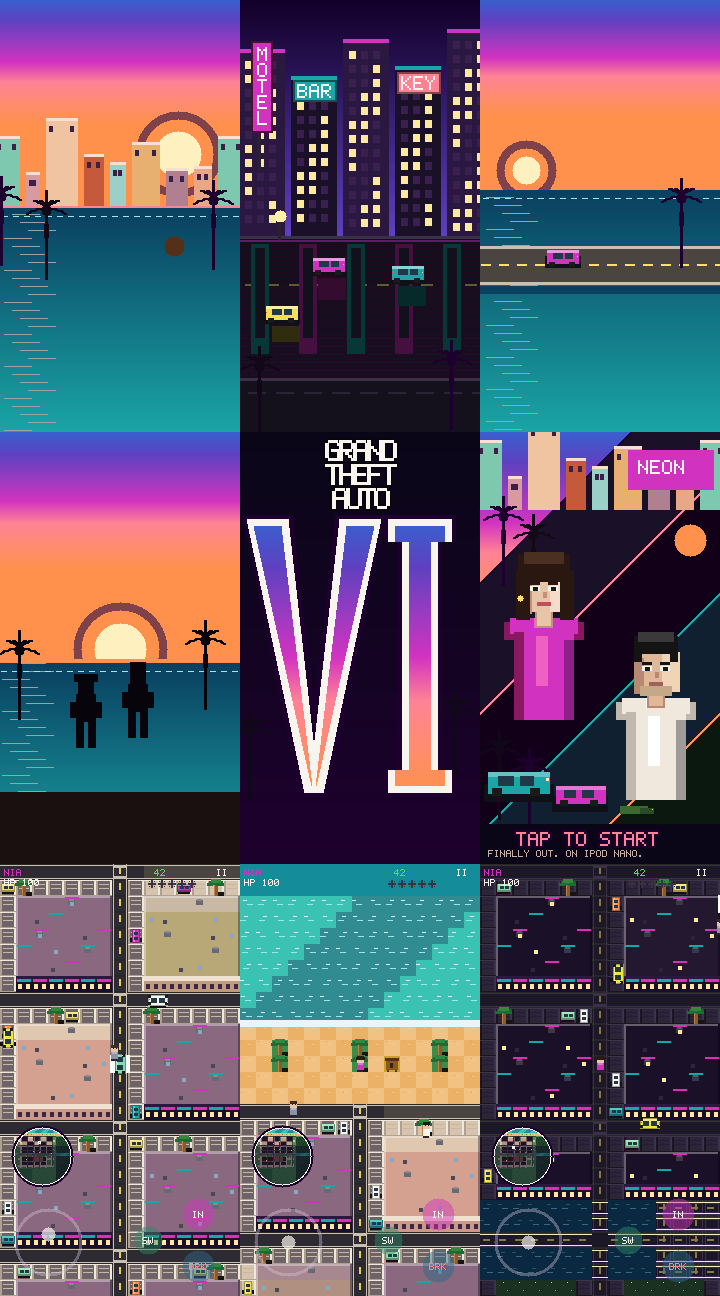
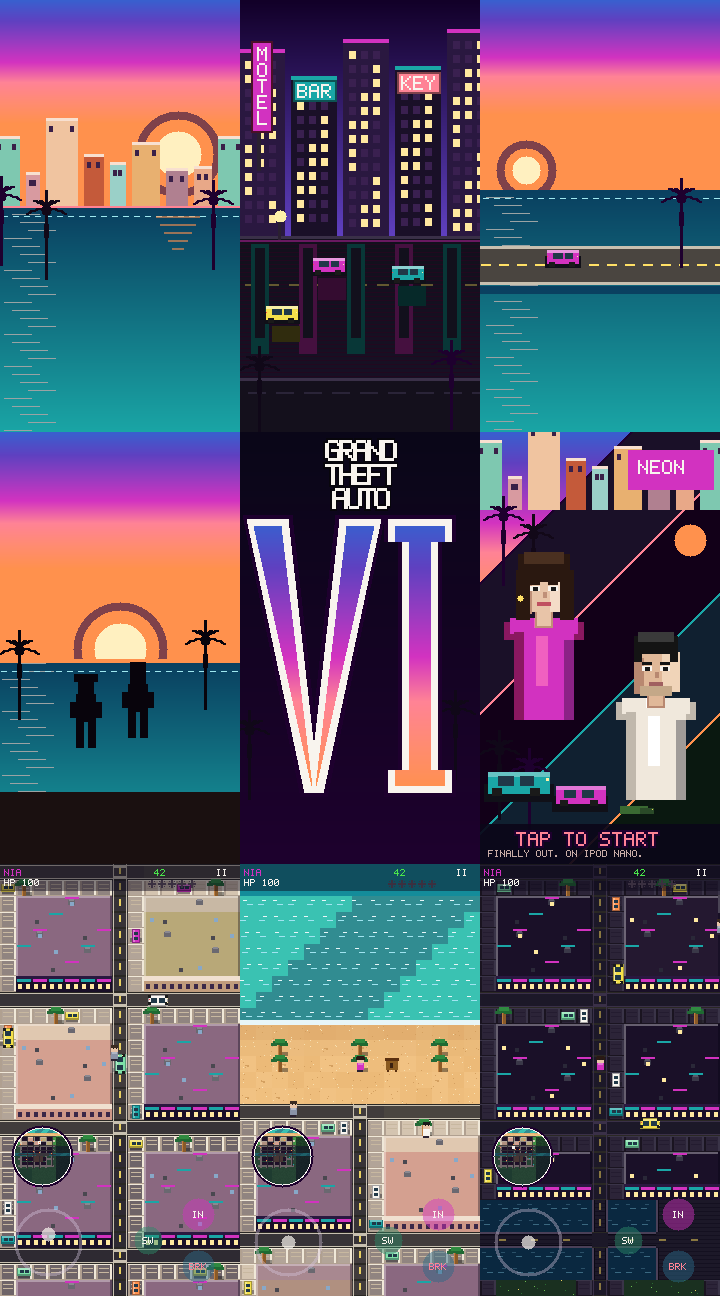
fix: GTA 6 beach sand, bridge, HUD legibility and translucent shadows
- Sand, grass and swamp used a parity hash that made a visible checkerboard.
  They now use an integer hash with soft shade steps, speckles and wet sand.
- Palms and the beach hut sit on sand, not on green squares.
- Bridge deck draws planks, rails on the water side and lane dashes instead
  of a grid of road edge lines.
- Neon glow near buildings fades in two steps instead of a hard patch.
- fillr ignores alpha, so shadows, the player car highlight, the pause
  overlay and the title strip were opaque. They now blend.
- Top HUD and ticker get a dark backing strip so text reads over any tile.
- Sunset scene: the brown ball in the water is now an orange reflection.

Movement values, memory plan and save format are unchanged.

diff --git a/nanoapps/apps/gta6/gta6_gfx.c b/nanoapps/apps/gta6/gta6_gfx.c
@@ -68,6 +68,15 @@ static void pset_a(uint32_t *fb, int w, int h, int x, int y, uint32_t c, int a)
     fb[(long)y * w + x] = lerp(d, c, a, 256);
 }
 
+static uint32_t thash(int x, int y)
+{
+    uint32_t v = (uint32_t)x * 0x9E3779B1u ^ (uint32_t)y * 0x85EBCA6Bu;
+    v ^= v >> 15;
+    v *= 0x2C1B3C6Du;
+    v ^= v >> 12;
+    return v;
+}
+
 static void fillr(uint32_t *fb, int w, int h, int x, int y, int rw, int rh, uint32_t c)
 {
     int i, j, x1, y1;
@@ -83,6 +92,13 @@ static void fillr(uint32_t *fb, int w, int h, int x, int y, int rw, int rh, uint
         uint32_t *row = fb + (long)j * w;
         for (i = x; i < x1; i++) row[i] = c;
     }
+}
+
+static void fill_a(uint32_t *fb, int w, int h, int x, int y, int rw, int rh, uint32_t c, int a)
+{
+    int i, j;
+    for (j = y; j < y + rh; j++)
+        for (i = x; i < x + rw; i++) pset_a(fb, w, h, i, j, c, a);
 }
 
 static uint32_t fade_c(uint32_t c, int f)
@@ -308,7 +324,13 @@ static void scene_sunset(uint32_t *fb, int w, int h, int t, int fade)
     draw_skyline(fb, w, h, hor, pan, fade);
     fillr(fb, w, h, 0, hor, w, 3, fade_c(G6_COL_PINK, fade));
     draw_water(fb, w, h, hor + 2, pan, fade);
-    disc(fb, w, h, 168 + pan / 8, hor + 40, 10, fade_c(G6_COL_ORANGE, fade / 3));
+    {
+        int k, rx = 172 + pan / 8;
+        for (k = 0; k < 5; k++) {
+            int rw = 44 - k * 8;
+            fill_a(fb, w, h, rx - rw / 2, hor + 10 + k * 8, rw, 2, G6_COL_ORANGE, 150 * fade / 256);
+        }
+    }
     draw_palm_sil(fb, w, h, 16 - pan / 3, hor - 8, fade_c(G6_COL_OUTLINE, fade));
     draw_palm_sil(fb, w, h, 70 - pan / 2, hor + 6, fade_c(0xff120818, fade));
     draw_palm_sil(fb, w, h, 200 + pan / 4, hor - 4, fade_c(G6_COL_OUTLINE, fade));
@@ -578,7 +600,7 @@ static void draw_menu(G6Game *g, uint32_t *fb, int w, int h)
     fillr(fb, w, h, 148, 18, 86, 40, G6_COL_MAGENTA);
     g6_text5(fb, w, h, 158, 28, "NEON", 2, G6_COL_WHITE);
     disc(fb, w, h, 210, 108, 16, G6_COL_ORANGE);
-    fillr(fb, w, h, 0, 392, w, 40, 0xEE0A0618);
+    fill_a(fb, w, h, 0, 392, w, 40, 0xff0A0618, 238);
     text_ol(fb, w, h, 36, 400, "TAP TO START", 2,
             pulse ? G6_COL_WHITE : G6_COL_PINK, G6_COL_OUTLINE);
     g6_text5(fb, w, h, 8, 418, G6_TAG, 1, 0xffC9ADA7);
@@ -627,13 +649,17 @@ static int is_bldg(int t)
     return t == T_BUILD || t == T_ROOF || t == T_NEON || t == T_SHACK;
 }
 
-static int near_neon(const G6Game *g, int tx, int ty)
+/* Neon glow strength out of 5 for a tile: soft falloff, not a hard patch. */
+static int neon_glow(const G6Game *g, int tx, int ty)
 {
-    int dx, dy;
+    int dx, dy, best = 3;
     for (dy = -2; dy <= 2; dy++)
         for (dx = -2; dx <= 2; dx++)
-            if (map_tile(g, tx + dx, ty + dy) == T_NEON) return 1;
-    return 0;
+            if (map_tile(g, tx + dx, ty + dy) == T_NEON) {
+                int d = (dx < 0 ? -dx : dx) > (dy < 0 ? -dy : dy) ? (dx < 0 ? -dx : dx) : (dy < 0 ? -dy : dy);
+                if (d < best) best = d;
+            }
+    return best == 3 ? 0 : (best <= 1 ? 2 : 1);
 }
 
 static int view_night(const G6Game *g)
@@ -649,26 +675,56 @@ static uint32_t roof_of(int tx, int ty)
     return ROOF_PAL[((tx / 8) * 3 + (ty / 8) * 5) & 7];
 }
 
+/* What lies under a palm or a hut: sand on the beach, grass elsewhere. */
+static int ground_of(const G6Game *g, int tx, int ty)
+{
+    int dx, dy;
+    for (dy = -1; dy <= 1; dy++)
+        for (dx = -1; dx <= 1; dx++)
+            if (map_tile(g, tx + dx, ty + dy) == T_SAND) return T_SAND;
+    for (dy = -1; dy <= 1; dy++)
+        for (dx = -1; dx <= 1; dx++)
+            if (map_tile(g, tx + dx, ty + dy) == T_PARK) return T_PARK;
+    return T_GRASS;
+}
+
+static uint32_t sand_col(const G6Game *g, int x, int y)
+{
+    uint32_t hv = thash(x, y);
+    uint32_t c = lerp(G6_COL_SAND, 0xffE0AE68, (int)(hv & 3u), 8);
+    if (map_tile(g, x, y - 1) == T_OCEAN)
+        c = lerp(c, 0xffC89A60, 3, 8);
+    else if (map_tile(g, x, y - 2) == T_OCEAN)
+        c = lerp(c, 0xffD8AC70, 1, 4);
+    return c;
+}
+
 static uint32_t tile_col(const G6Game *g, int t, int x, int y)
 {
-    int hsh = (x * 13 + y * 7) & 7;
-    int night = (t == T_NEON) || (y >= 30) || near_neon(g, x, y);
+    uint32_t hv = thash(x, y);
+    int hsh = (int)(hv & 7u);
+    int nk = (t == T_NEON || y >= 30) ? 3 : neon_glow(g, x, y);
+    int night = nk > 0;
     uint32_t c;
+    if (t == T_PALM || t == T_SHACK) {
+        int under = ground_of(g, x, y);
+        c = under == T_SAND ? sand_col(g, x, y)
+            : under == T_PARK ? 0xff2F7A3A : 0xff3D8C40;
+        t = under == T_SAND ? T_SAND : T_GRASS;
+    } else
     switch (t) {
     case T_OCEAN: c = ((g->tick_n + x + y) & 8) ? 0xff148C9A : 0xff1EC8C0; break;
-    case T_SAND: c = hsh & 1 ? G6_COL_SAND : 0xffE8B56A; break;
-    case T_GRASS: c = hsh ? 0xff4A9A4A : 0xff3D8C40; break;
+    case T_SAND: c = sand_col(g, x, y); break;
+    case T_GRASS: c = lerp(0xff3D8C40, 0xff4A9A4A, hsh & 3, 4); break;
     case T_PARK: c = 0xff2F7A3A; break;
-    case T_SWAMP: c = hsh & 1 ? 0xff234A2C : 0xff1B3A24; break;
+    case T_SWAMP: c = lerp(0xff1B3A24, 0xff234A2C, hsh & 3, 4); break;
     case T_ROAD: c = G6_COL_ASPHALT; break;
     case T_WALK: c = 0xffD4C4B0; break;
     case T_BUILD:
     case T_ROOF: c = roof_of(x, y); break;
     case T_BRIDGE: c = 0xff6A6458; break;
     case T_DOCK: c = 0xff8A6A44; break;
-    case T_PALM: c = 0xff3D8C4A; break;
     case T_NEON: c = 0xff241028; break;
-    case T_SHACK: c = 0xffC9A227; break;
     default: c = 0xff203018; break;
     }
     if (t == T_SAND || t == T_OCEAN || t == T_DOCK)
@@ -679,14 +735,14 @@ static uint32_t tile_col(const G6Game *g, int t, int x, int y)
         if (t == T_ROAD || t == T_BRIDGE) nv = 0xff1A1828;
         if (t == T_WALK) nv = 0xff2A2438;
         if (t == T_NEON) nv = 0xff1A1028;
-        c = lerp(c, nv, 3, 5);
+        c = lerp(c, nv, nk, 5);
     }
     return c | 0xff000000u;
 }
 
 static void draw_palm_top(uint32_t *fb, int w, int h, int ox, int oy)
 {
-    fillr(fb, w, h, ox + 10, oy + 12, 7, 4, 0x88141410);
+    fill_a(fb, w, h, ox + 10, oy + 12, 7, 4, 0xff141410, 110);
     fillr(fb, w, h, ox + 7, oy + 4, 3, 12, 0xff8A5A28);
     fillr(fb, w, h, ox + 6, oy + 4, 1, 12, 0xffC08040);
     fillr(fb, w, h, ox + 1, oy + 1, 14, 4, 0xff1F6A32);
@@ -697,7 +753,7 @@ static void draw_palm_top(uint32_t *fb, int w, int h, int ox, int oy)
 
 static void draw_parked(uint32_t *fb, int w, int h, int ox, int oy, uint32_t col, int horiz)
 {
-    fillr(fb, w, h, ox + 2, oy + 10, 12, 4, 0x66101018);
+    fill_a(fb, w, h, ox + 2, oy + 10, 12, 4, 0xff101018, 100);
     if (horiz) {
         fillr(fb, w, h, ox + 1, oy + 4, 14, 8, dim(col));
         fillr(fb, w, h, ox + 2, oy + 4, 12, 6, col);
@@ -718,17 +774,22 @@ static void draw_tile(const G6Game *g, uint32_t *fb, int w, int h, int tx, int t
     int t = map_tile(g, tx, ty);
     uint32_t c = tile_col(g, t, tx, ty);
     int n, south, east, west, north, facade;
+    int gt = t;
+    if (t == T_PALM || t == T_SHACK) {
+        gt = ground_of(g, tx, ty);
+        if (gt != T_SAND) gt = T_GRASS;
+    }
     if (night && t != T_NEON) {
         if (t == T_ROAD || t == T_BRIDGE) c = 0xff1C1828;
         else if (t == T_WALK) c = 0xff2C2438;
         else if (t == T_OCEAN) c = 0xff0A2840;
-        else if (t == T_SAND) c = 0xff4A3A40;
-        else if (t == T_GRASS || t == T_PARK || t == T_PALM) c = 0xff1A3020;
+        else if (gt == T_SAND) c = lerp(0xff4A3A40, c, 1, 8);
+        else if (t == T_GRASS || t == T_PARK || gt == T_GRASS) c = 0xff1A3020;
         else if (is_bldg(t)) c = dim(roof_of(tx, ty));
         else c = lerp(c, 0xff121028, 3, 5);
     }
     fillr(fb, w, h, ox, oy, G6_TILE, G6_TILE, c);
-    if (t == T_ROAD || t == T_BRIDGE) {
+    if (t == T_ROAD) {
         int hr = map_tile(g, tx - 1, ty) == t || map_tile(g, tx + 1, ty) == t;
         int vr = map_tile(g, tx, ty - 1) == t || map_tile(g, tx, ty + 1) == t;
         uint32_t edge = night ? 0xff3A3048 : 0xffC8C0B0;
@@ -760,7 +821,7 @@ static void draw_tile(const G6Game *g, uint32_t *fb, int w, int h, int tx, int t
         for (n = 4; n < 12; n += 4)
             fillr(fb, w, h, ox + 3, oy + n, 10, 1, night ? 0xff241C30 : 0xffC8B8A0);
         if (is_bldg(map_tile(g, tx, ty - 1)))
-            fillr(fb, w, h, ox, oy, G6_TILE, 3, 0x66141420);
+            fill_a(fb, w, h, ox, oy, G6_TILE, 3, 0xff141420, 100);
         if (((tx * 5 + ty * 3) % 11) == 2 &&
             (map_tile(g, tx, ty + 1) == T_ROAD || map_tile(g, tx, ty - 1) == T_ROAD))
             draw_parked(fb, w, h, ox, oy, CAR_COL[(tx + ty) % 6], 1);
@@ -770,18 +831,32 @@ static void draw_tile(const G6Game *g, uint32_t *fb, int w, int h, int tx, int t
         else if (((tx + ty * 2) % 6) == 0)
             draw_palm_top(fb, w, h, ox, oy);
     }
+    if (gt == T_SAND) {
+        uint32_t hv = thash(tx, ty);
+        uint32_t dk = night ? 0xff3A2C34 : 0xffD4A060;
+        uint32_t lt = night ? 0xff5A4A50 : 0xffF8E0B0;
+        int k;
+        for (k = 0; k < 4; k++) {
+            uint32_t q = thash(tx * 5 + k, ty * 3 + 7 * k);
+            pset(fb, w, h, ox + (int)(q & 15u), oy + (int)((q >> 4) & 15u), (q >> 9) & 1u ? dk : lt);
+        }
+        if ((hv & 7u) == 0) {
+            fillr(fb, w, h, ox + 3 + (int)((hv >> 8) & 7u), oy + 6 + (int)((hv >> 12) & 3u), 4, 1, dk);
+            fillr(fb, w, h, ox + 5 + (int)((hv >> 8) & 7u), oy + 7 + (int)((hv >> 12) & 3u), 2, 1, dk);
+        }
+    }
     if (t == T_SAND) {
-        pset(fb, w, h, ox + (tx & 7), oy + (ty & 7), 0xffD4A060);
-        pset(fb, w, h, ox + 9, oy + 4, 0xffF8E0B0);
-        if (map_tile(g, tx, ty - 1) == T_OCEAN || map_tile(g, tx, ty + 1) == T_OCEAN)
-            fillr(fb, w, h, ox, oy + ((map_tile(g, tx, ty - 1) == T_OCEAN) ? 0 : 13), G6_TILE, 3, G6_COL_FOAM);
+        if (map_tile(g, tx, ty - 1) == T_OCEAN)
+            fillr(fb, w, h, ox, oy, G6_TILE, 1, night ? 0xff6A8090 : G6_COL_FOAM);
         if (map_tile(g, tx - 1, ty) == T_OCEAN)
             fillr(fb, w, h, ox, oy, 3, G6_TILE, G6_COL_FOAM);
     }
-    if (t == T_GRASS || t == T_PARK) {
-        pset(fb, w, h, ox + 3, oy + 5, 0xff2A6A32);
-        pset(fb, w, h, ox + 11, oy + 10, 0xff6ABA50);
-        pset(fb, w, h, ox + 7, oy + 2, 0xffE8D060);
+    if (t == T_GRASS || t == T_PARK || (t == T_PALM && gt == T_GRASS)) {
+        uint32_t q = thash(tx, ty);
+        pset(fb, w, h, ox + (int)(q & 15u), oy + (int)((q >> 4) & 15u), 0xff2A6A32);
+        pset(fb, w, h, ox + (int)((q >> 8) & 15u), oy + (int)((q >> 12) & 15u), 0xff6ABA50);
+        if ((q & 0x30000u) == 0)
+            pset(fb, w, h, ox + (int)((q >> 18) & 15u), oy + (int)((q >> 22) & 15u), 0xffE8D060);
     }
     if (t == T_BUILD || t == T_ROOF || t == T_NEON) {
         uint32_t pal = roof_of(tx, ty);
@@ -846,8 +921,32 @@ static void draw_tile(const G6Game *g, uint32_t *fb, int w, int h, int tx, int t
         fillr(fb, w, h, ox + 11, oy + 14, 2, 2, 0xff5A3010);
     }
     if (t == T_BRIDGE) {
-        fillr(fb, w, h, ox, oy + 2, G6_TILE, 1, 0xffF0E8D0);
-        fillr(fb, w, h, ox, oy + 13, G6_TILE, 1, 0xffF0E8D0);
+        uint32_t plank = night ? 0xff141020 : 0xff5A5448;
+        uint32_t rail = night ? 0xff4A4058 : 0xffF0E8D0;
+        uint32_t rail_d = night ? 0xff0A0814 : 0xff2A2824;
+        uint32_t dash = night ? 0xff8A7840 : 0xffE8D060;
+        for (n = 3; n < G6_TILE; n += 4)
+            fillr(fb, w, h, ox, oy + n, G6_TILE, 1, plank);
+        if (map_tile(g, tx, ty - 1) == T_OCEAN) {
+            fillr(fb, w, h, ox, oy, G6_TILE, 2, rail);
+            fillr(fb, w, h, ox, oy + 2, G6_TILE, 1, rail_d);
+        }
+        if (map_tile(g, tx, ty + 1) == T_OCEAN) {
+            fillr(fb, w, h, ox, oy + 14, G6_TILE, 2, rail);
+            fillr(fb, w, h, ox, oy + 13, G6_TILE, 1, rail_d);
+        }
+        if (map_tile(g, tx - 1, ty) == T_OCEAN) {
+            fillr(fb, w, h, ox, oy, 2, G6_TILE, rail);
+            fillr(fb, w, h, ox + 2, oy, 1, G6_TILE, rail_d);
+        }
+        if (map_tile(g, tx + 1, ty) == T_OCEAN) {
+            fillr(fb, w, h, ox + 14, oy, 2, G6_TILE, rail);
+            fillr(fb, w, h, ox + 13, oy, 1, G6_TILE, rail_d);
+        }
+        if ((tx & 7) == 0)
+            fillr(fb, w, h, ox + 7, oy + 3, 2, 7, dash);
+        if (ty == 44 && (tx & 1) == 0)
+            fillr(fb, w, h, ox + 3, oy + 7, 7, 2, dash);
     }
 }
 
@@ -871,8 +970,8 @@ static void draw_car(uint32_t *fb, int w, int h, int x, int y, uint8_t ang, uint
     uint32_t lo = dim(col);
     uint32_t win = 0xff203848;
     uint32_t light = ((ang + x) & 8) ? G6_COL_MAGENTA : G6_COL_TEAL;
-    fillr(fb, w, h, x - 8, y + 4, 16, 4, 0x66101018);
-    if (mine) fillr(fb, w, h, x - 10, y - 9, 20, 18, 0x44FFFFFF);
+    fill_a(fb, w, h, x - 8, y + 4, 16, 4, 0xff101018, 100);
+    if (mine) fill_a(fb, w, h, x - 10, y - 9, 20, 18, 0xffFFFFFF, 56);
     if (cop) col = 0xffF4F1DE;
     if (dir == 0 || dir == 4) {
         fillr(fb, w, h, x - 10, y - 5, 20, 11, lo);
@@ -1063,6 +1162,7 @@ static void draw_hud(G6Game *g, uint32_t *fb, int w, int h)
     char *o;
     int i, stars = g->wanted, len;
     int dx, dy, r, r2, r0;
+    fill_a(fb, w, h, 0, 0, w, 27, 0xff0A0618, 120);
     o = put_s(line, "$");
     o = put_u(o, (unsigned)g->money);
     len = 0;
@@ -1075,8 +1175,10 @@ static void draw_hud(G6Game *g, uint32_t *fb, int w, int h)
     put_u(o, (unsigned)g->hp);
     g6_text5(fb, w, h, 4, 15, line, 1, g->hp > 30 ? G6_COL_WHITE : G6_COL_ORANGE);
     g6_text5(fb, w, h, 216, 5, "II", 1, G6_COL_WHITE);
-    if (g->ticker[0])
+    if (g->ticker[0]) {
+        fill_a(fb, w, h, 0, 319, w, 13, 0xff0A0618, 120);
         g6_text5(fb, w, h, 4, 322, g->ticker, 1, G6_COL_TEAL);
+    }
     r = 34;
     r2 = r * r;
     r0 = (r - 3) * (r - 3);
@@ -1118,7 +1220,7 @@ static void draw_map_view(G6Game *g, uint32_t *fb, int w, int h)
 
 static void draw_overlay_msg(uint32_t *fb, int w, int h, const char *a, const char *b)
 {
-    fillr(fb, w, h, 10, 150, w - 20, 120, 0xEE0A0618);
+    fill_a(fb, w, h, 10, 150, w - 20, 120, 0xff0A0618, 238);
     g6_text5(fb, w, h, 40, 168, a, 3, G6_COL_MAGENTA);
     g6_text5(fb, w, h, 20, 210, b, 1, G6_COL_WHITE);
 }
@@ -1151,7 +1253,7 @@ void g6_draw(G6Game *g, uint32_t *fb, int w, int h)
     else if (g->mode == G6_WASTED)
         draw_overlay_msg(fb, w, h, "WASTED", "TAP TO CONTINUE");
     else if (g->mode == G6_PAUSE) {
-        fillr(fb, w, h, 16, 120, w - 32, 180, 0xEE0A0618);
+        fill_a(fb, w, h, 16, 120, w - 32, 180, 0xff0A0618, 238);
         g6_text5(fb, w, h, 40, 136, "PAUSED", 2, G6_COL_WHITE);
         g6_text5(fb, w, h, 28, 170, "RESUME", 1, 0xff7EE0A8);
         g6_text5(fb, w, h, 28, 188, "JOB", 1, G6_COL_STAR);
